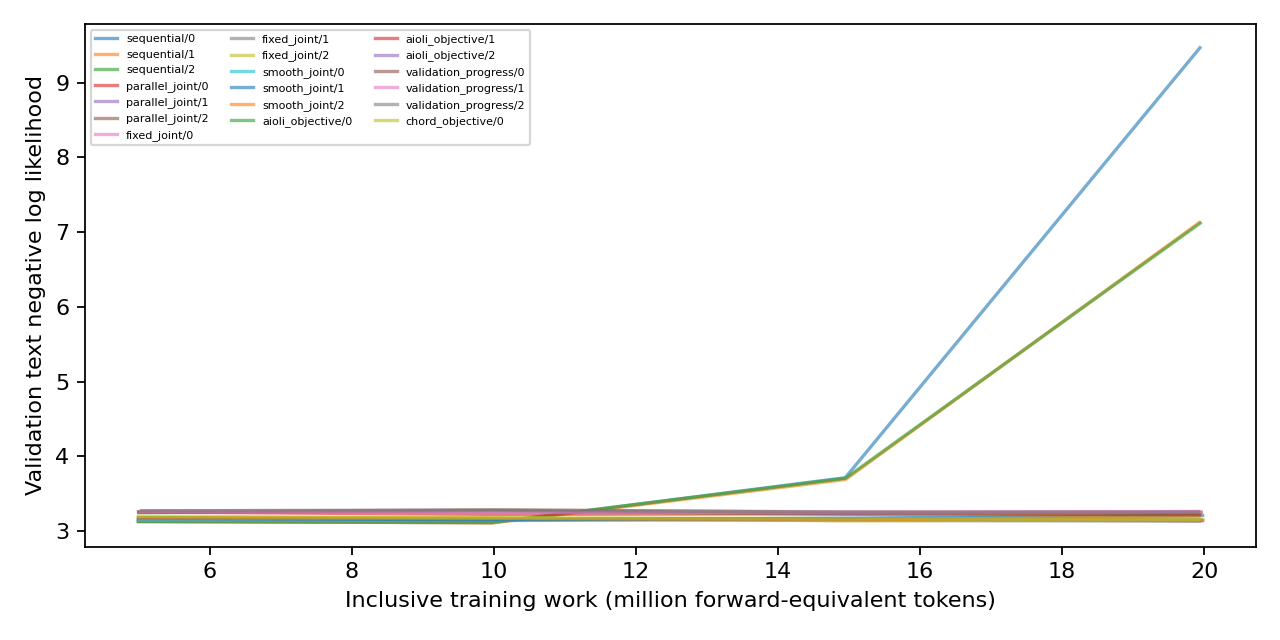
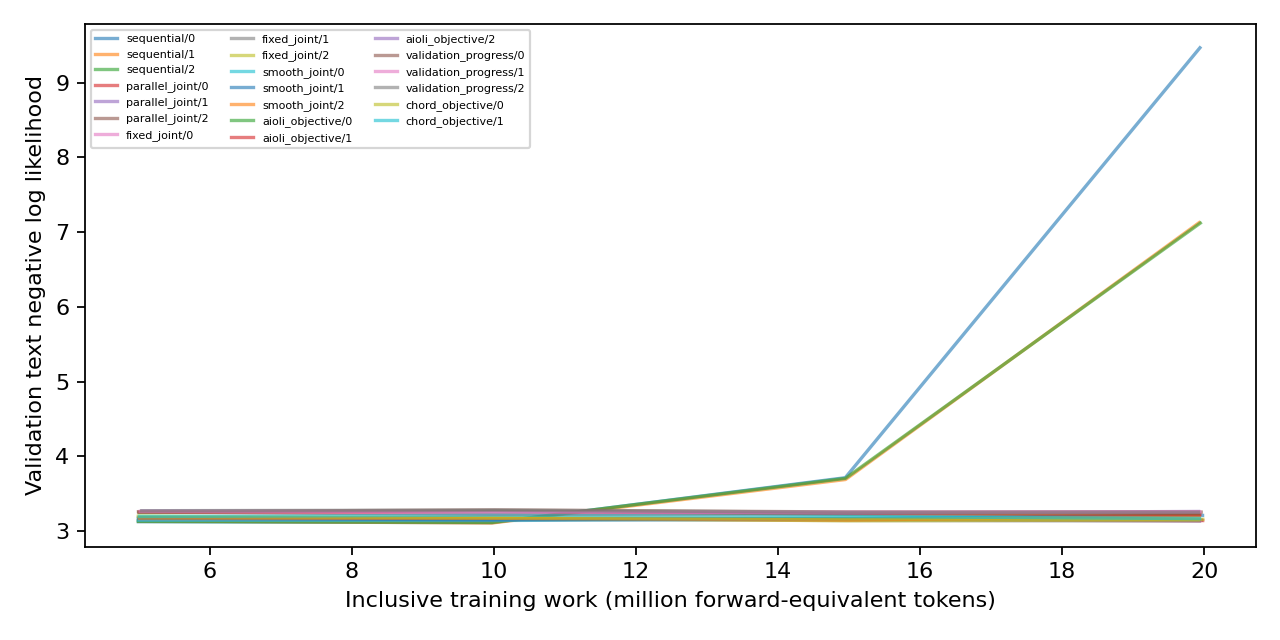
Report verified unified-training pilot progress

diff --git a/experiments/02_early_checkpoint_joint_objectives/results.md b/experiments/02_early_checkpoint_joint_objectives/results.md
@@ -23,7 +23,7 @@
 | validation_progress | 1 | complete | 19.938 | 0.3325 [0.3138, 0.3517] | 0.0190 [0.0129, 0.0278] | 3.3887 [3.3604, 3.4169] | 0.5977 [0.5366, 0.6559] / 0.5195 [0.4585, 0.5800] |
 | validation_progress | 2 | complete | 19.916 | 0.3354 [0.3167, 0.3547] | 0.0220 [0.0154, 0.0314] | 3.3600 [3.3316, 3.3876] | 0.5781 [0.5169, 0.6370] / 0.5312 [0.4701, 0.5915] |
 | chord_objective | 0 | complete | 19.979 | 0.3279 [0.3093, 0.3470] | 0.0212 [0.0147, 0.0305] | 3.2771 [3.2481, 3.3063] | 0.6133 [0.5524, 0.6708] / 0.5938 [0.5326, 0.6521] |
-| chord_objective | 1 | pending | unavailable | unavailable | unavailable | unavailable | unavailable |
+| chord_objective | 1 | complete | 19.934 | 0.3363 [0.3176, 0.3555] | 0.0015 [0.0004, 0.0055] | 3.2573 [3.2277, 3.2856] | 0.6016 [0.5405, 0.6596] / 0.5234 [0.4624, 0.5838] |
 | chord_objective | 2 | pending | unavailable | unavailable | unavailable | unavailable | unavailable |
 | rpt_inspired | 0 | pending | unavailable | unavailable | unavailable | unavailable | unavailable |
 | rpt_inspired | 1 | pending | unavailable | unavailable | unavailable | unavailable | unavailable |
@@ -33,7 +33,7 @@ NLL = negative log likelihood; preference raw ordering is the preference endpoin
 
 Intervals: 95% Wilson binary-item score, conditional on each trained model; p-val=n/a (no hypothesis test). Three seeds do not establish universal superiority. Aioli, CHORD (Controllable Harmonization of On- and Off-Policy Reinforcement Learning via Dynamic Weighting), and RPT (Reinforcement Pre-Training) are declared adaptations; exact CHERRY-RL identity remains unresolved.
 
-Complete: 19/24. See `expt_v1/PROTOCOL.md` and the program review reconciliation.
+Complete: 20/24. See `expt_v1/PROTOCOL.md` and the program review reconciliation.
 
 Seed uncertainty, two-stage seed/item intervals, initial-checkpoint changes and all paired comparisons: `expt_v1/analysis.json`. Missing trained seeds remain missing with separate accuracy sensitivity bounds. p-val=n/a throughout; no formal superiority verdict.
 

diff --git a/experiments/00_program/FINAL_STATUS.md b/experiments/00_program/FINAL_STATUS.md
@@ -1,6 +1,6 @@
 # Full-program status
 
-Verified cells: 43/48; failed: 0; interrupted: 0; pending: 5; unstarted at global bound: 0.
+Verified cells: 44/48; failed: 0; interrupted: 0; pending: 4; unstarted at global bound: 0.
 
 Full-program execution is incomplete. Required plan and implementation findings are reconciled; see acceptance.json.
 Results and uncertainty are in each experiment folder; no universal-superiority claim.
